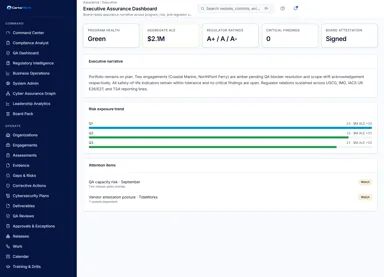
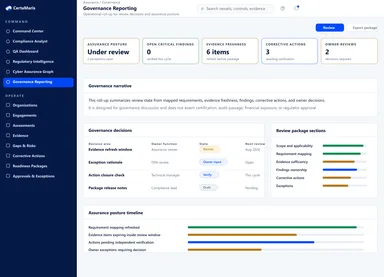
Improve product screenshot proof sequence

diff --git a/lib/product-screens.ts b/lib/product-screens.ts
@@ -40,13 +40,21 @@ export const productProofScreens = {
     body: "Corrective actions stay owned, time-bound, and visible through verification instead of ending as an untracked finding.",
     galleryOrder: 4,
   },
+  auditReadiness: {
+    src: "/product/clean/audit-readiness.png",
+    alt: "CertaMaris audit readiness package screen showing scope status, required evidence, open findings, corrective actions awaiting verification, exceptions, and reviewer notes.",
+    label: "Audit readiness",
+    title: "Readiness package preparation",
+    body: "A readiness package keeps scope, evidence, findings, corrective actions, exceptions, and reviewer notes structured for inspection without claiming an audit outcome.",
+    galleryOrder: 5,
+  },
   executiveReporting: {
     src: "/product/clean/executive-reporting.png",
-    alt: "CertaMaris board pack screen showing a sanitized governance roll-up of portfolio health, risk exposure, attestation status, KPIs, and risk heatmap.",
-    label: "Board pack",
+    alt: "CertaMaris governance reporting screen showing assurance posture, evidence freshness, corrective actions awaiting verification, owner reviews, governance decisions, and review package sections.",
+    label: "Governance reporting",
     title: "Governance reporting",
-    body: "A board-facing roll-up summarizes assurance posture, strategic risk, attestations, and operating indicators from the same underlying record.",
-    galleryOrder: 5,
+    body: "A governance roll-up summarizes assurance posture, evidence freshness, corrective actions, and owner review decisions without unsupported financial, certification, or regulator claims.",
+    galleryOrder: 6,
   },
   fleetInventory: {
     src: "/product/clean/fleet-inventory.png",
@@ -54,7 +62,7 @@ export const productProofScreens = {
     label: "Fleet and facilities",
     title: "Fleet scope and review cadence",
     body: "Fleet scope, vessel status, locations, criticality, and review cadence stay visible before any audit package is assembled.",
-    galleryOrder: 6,
+    galleryOrder: 7,
   },
 } satisfies Record<string, ProductProofScreen>;
 
@@ -63,5 +71,6 @@ export const productProofSequence = [
   productProofScreens.evidenceCoverage,
   productProofScreens.findingsRegister,
   productProofScreens.correctiveActions,
+  productProofScreens.auditReadiness,
   productProofScreens.executiveReporting,
 ];

diff --git a/lib/solutions-industries.ts b/lib/solutions-industries.ts
@@ -78,7 +78,7 @@ export const solutions: SolutionEntry[] = [
     eyebrow: "Solutions · 05",
     headline: "Governance-grade reporting without a slide deck rebuilt from scratch.",
     body: [
-      "Boards and executive teams need fleet-wide cyber-compliance status in a format built for a governance conversation — trend over time, outstanding decisions, and where exposure concentrates — not a raw export of every open finding.",
+      "Boards and executive teams need fleet-wide cyber-compliance status in a format built for a governance conversation — trend over time, outstanding decisions, and where operational risk needs review — not a raw export of every open finding.",
       "Executive & Board Reporting draws directly from the same live data operators and technical managers use day to day, so the number in the boardroom matches the number on the vessel.",
     ],
     capabilities: [
@@ -106,10 +106,10 @@ export const industries: IndustryEntry[] = [
     eyebrow: "Industries · 01",
     headline: "Fleet-wide readiness without chasing individual vessels for status.",
     body: [
-      "Owners and operators carry the commercial consequence of a cyber-compliance gap — off-hire risk, insurer conversations, and charterer scrutiny — without always having direct visibility into vessel-level detail.",
-      "CertaMaris gives owners and operators a fleet-wide view of readiness, open findings, and exposure, with the ability to drill into any vessel's underlying detail when it matters.",
+      "Owners and operators carry the operational consequence of a cyber-compliance gap — survey preparation, insurer conversations, and charterer scrutiny — without always having direct visibility into vessel-level detail.",
+      "CertaMaris gives owners and operators a fleet-wide view of readiness, open findings, and review decisions, with the ability to drill into any vessel's underlying detail when it matters.",
     ],
-    priorities: ["Fleet-wide readiness visibility", "Financial and operational exposure by vessel", "Insurer and charterer-ready reporting"],
+    priorities: ["Fleet-wide readiness visibility", "Open findings and review decisions by vessel", "Insurer and charterer-ready reporting"],
   },
   {
     id: "technical-managers",

diff --git a/app/solutions/page.tsx b/app/solutions/page.tsx
@@ -16,7 +16,7 @@ export const metadata = pageMetadata(
 
 const solutionScreens: Record<string, typeof productProofScreens[keyof typeof productProofScreens]> = {
   "fleet-compliance": productProofScreens.fleetInventory,
-  "audit-readiness": productProofScreens.evidenceCoverage,
+  "audit-readiness": productProofScreens.auditReadiness,
   "evidence-findings": productProofScreens.findingsRegister,
   "regulatory-intelligence": productProofScreens.requirementMapping,
   "executive-reporting": productProofScreens.executiveReporting,
@@ -27,11 +27,12 @@ const featuredScreens = [
   productProofScreens.evidenceCoverage,
   productProofScreens.findingsRegister,
   productProofScreens.correctiveActions,
+  productProofScreens.auditReadiness,
 ];
 
 const solutionScreenOrder: Record<string, number> = {
   "regulatory-intelligence": productProofScreens.requirementMapping.galleryOrder,
-  "audit-readiness": productProofScreens.evidenceCoverage.galleryOrder,
+  "audit-readiness": productProofScreens.auditReadiness.galleryOrder,
   "evidence-findings": productProofScreens.findingsRegister.galleryOrder,
   "executive-reporting": productProofScreens.executiveReporting.galleryOrder,
   "fleet-compliance": productProofScreens.fleetInventory.galleryOrder,
@@ -67,7 +68,8 @@ export default function SolutionsPage() {
             </h2>
             <p className="text-[15.5px] text-structural leading-relaxed">
               These are sanitized product views, not decorative mockups. They show where fleet scope, evidence
-              sufficiency, findings, corrective action ownership, and board reporting live inside CertaMaris.
+              sufficiency, findings, corrective action ownership, audit readiness, and governance reporting live inside
+              CertaMaris.
             </p>
           </Reveal>
           <Reveal delay={0.08} className="grid sm:grid-cols-2 gap-5">

diff --git a/app/resources/page.tsx b/app/resources/page.tsx
@@ -32,7 +32,8 @@ export default function ResourcesPage() {
             </h2>
             <p className="text-[15.5px] text-structural leading-relaxed">
               The resource library is more useful when readers can see where the concept lives: requirement mapping,
-              evidence sufficiency, findings, risk decisions, corrective actions, and executive reporting.
+              evidence sufficiency, findings, risk decisions, corrective actions, readiness packages, and governance
+              reporting.
             </p>
           </Reveal>
           <Reveal delay={0.08}>
@@ -56,7 +57,7 @@ export default function ResourcesPage() {
             Start with the workflow, then go deeper.
           </h2>
         </Reveal>
-        <RevealGroup className="grid md:grid-cols-2 lg:grid-cols-4 gap-6" stagger={0.05}>
+        <RevealGroup className="grid md:grid-cols-2 lg:grid-cols-3 xl:grid-cols-5 gap-6" stagger={0.05}>
           <ProductScreenTile
             {...productProofScreens.requirementMapping}
             title="Regulatory intelligence"
@@ -71,6 +72,11 @@ export default function ResourcesPage() {
             {...productProofScreens.correctiveActions}
             title="Corrective-action verification"
             body="Use the verification article to see why closure should remain separate from the action owner's own update."
+          />
+          <ProductScreenTile
+            {...productProofScreens.auditReadiness}
+            title="Audit readiness"
+            body="Use the readiness workflow to see why scope, evidence, findings, actions, exceptions, and reviewer notes need to stay inspectable."
           />
           <ProductScreenTile
             {...productProofScreens.executiveReporting}

diff --git a/components/ProductScreens.tsx b/components/ProductScreens.tsx
@@ -245,7 +245,7 @@ function ProductScreenFrameInner({
           className="aspect-[1440/1040] w-full object-cover object-top"
         />
       </figure>
-      <span className="pointer-events-none absolute bottom-3 right-3 rounded-full border border-white/40 bg-navy/82 px-3 py-1 font-mono text-[10px] uppercase tracking-[0.12em] text-white opacity-0 transition-opacity duration-150 group-hover:opacity-100 group-focus-visible:opacity-100">
+      <span className="pointer-events-none absolute bottom-3 right-3 rounded-full border border-white/40 bg-navy/82 px-3 py-1 font-mono text-[10px] uppercase tracking-[0.12em] text-white opacity-100 transition-opacity duration-150 sm:opacity-0 sm:group-hover:opacity-100 sm:group-focus-visible:opacity-100">
         Expand
       </span>
     </button>
@@ -493,7 +493,7 @@ export function ProductScreenFrame({
 
 export function ProductScreenTile({ title, body, ...screen }: ProductScreenTileProps) {
   return (
-    <article className="grid gap-4">
+    <article className="grid content-start gap-3.5">
       <ProductScreenFrameInner
         sizes="(min-width: 1280px) 25vw, (min-width: 1024px) 45vw, (min-width: 640px) 50vw, 100vw"
         {...screen}
@@ -501,7 +501,7 @@ export function ProductScreenTile({ title, body, ...screen }: ProductScreenTileP
         body={body}
       />
       <div>
-        <h3 className="mb-1.5 text-[15px] font-semibold">{title}</h3>
+        <h3 className="mb-1.5 text-[15px] font-semibold leading-snug">{title}</h3>
         <p className="text-[13.5px] leading-relaxed text-structural">{body}</p>
       </div>
     </article>

diff --git a/app/platform/page.tsx b/app/platform/page.tsx
@@ -32,6 +32,7 @@ const platformScreens = [
   productProofScreens.evidenceCoverage,
   productProofScreens.findingsRegister,
   productProofScreens.correctiveActions,
+  productProofScreens.auditReadiness,
 ];
 
 export default function PlatformPage() {
@@ -110,7 +111,7 @@ export default function PlatformPage() {
           <Eyebrow>Operational screens</Eyebrow>
           <h2 className="text-[28px] sm:text-[34px] leading-[1.14]">The record becomes usable operating rhythm.</h2>
         </Reveal>
-        <RevealGroup className="grid md:grid-cols-3 gap-6" stagger={0.05}>
+        <RevealGroup className="grid sm:grid-cols-2 lg:grid-cols-4 gap-6" stagger={0.05}>
           {platformScreens.map((screen) => (
             <ProductScreenTile key={screen.src} {...screen} />
           ))}

diff --git a/app/compliance/page.tsx b/app/compliance/page.tsx
@@ -150,7 +150,7 @@ export default function CompliancePage() {
             The requirement story continues into evidence and reporting.
           </h2>
         </Reveal>
-        <div className="grid md:grid-cols-2 lg:grid-cols-4 gap-6">
+        <div className="grid md:grid-cols-2 lg:grid-cols-3 xl:grid-cols-5 gap-6">
           <ProductScreenTile
             {...productProofScreens.evidenceCoverage}
           />
@@ -159,6 +159,9 @@ export default function CompliancePage() {
           />
           <ProductScreenTile
             {...productProofScreens.correctiveActions}
+          />
+          <ProductScreenTile
+            {...productProofScreens.auditReadiness}
           />
           <ProductScreenTile
             {...productProofScreens.executiveReporting}

diff --git a/app/page.tsx b/app/page.tsx
@@ -18,6 +18,7 @@ const productScreens = [
   productProofScreens.evidenceCoverage,
   productProofScreens.findingsRegister,
   productProofScreens.correctiveActions,
+  productProofScreens.auditReadiness,
   productProofScreens.executiveReporting,
 ];
 
@@ -145,7 +146,7 @@ export default function HomePage() {
             The site should show the system operators actually use.
           </h2>
         </Reveal>
-        <RevealGroup className="grid sm:grid-cols-2 gap-6" stagger={0.05}>
+        <RevealGroup className="grid sm:grid-cols-2 lg:grid-cols-3 gap-6" stagger={0.05}>
           {productScreens.map((screen) => (
             <ProductScreenTile key={screen.src} {...screen} />
           ))}

diff --git a/lib/content.ts b/lib/content.ts
@@ -94,7 +94,7 @@ export const personas: Persona[] = [
   {
     id: "owners-operators",
     title: "Ship owners & operators",
-    detail: "Fleet-wide readiness status and financial exposure without chasing individual vessels for updates.",
+    detail: "Fleet-wide readiness status, open findings, and owner decisions without chasing individual vessels for updates.",
   },
   {
     id: "technical-managers",

diff --git a/docs/product-screenshot-governance.md b/docs/product-screenshot-governance.md
@@ -1,0 +1,84 @@
+# Product Screenshot Governance
+
+This standard controls public CertaMaris product screenshots used on the marketing website.
+
+## Asset Standard
+
+- Source resolution: `1440x1040` PNG.
+- Aspect ratio: `18:13`.
+- Source location: `public/product/clean/`.
+- Optimized variants: `public/product/optimized/`.
+- Required optimized widths: `384`, `640`, and `960` WebP.
+- Naming: lowercase kebab-case, matching the source PNG base name, for example `audit-readiness.png` and `audit-readiness-640.webp`.
+- Crop: show product chrome, sidebar context, title, and the primary working area. Do not crop away the workflow context that explains the screen.
+- Safe margins: keep critical text and controls at least `24px` from the screenshot edge.
+
+## Data Rules
+
+- Use sanitized product-like data only.
+- Prefer role and function labels over person names.
+- Generic roles are acceptable: `Assurance owner`, `Compliance lead`, `Security lead`, `Technical manager`, and `DPA review`.
+- Avoid accidental placeholder names such as `John Doe`, `Jane Smith`, `Test User`, `Acme`, or `Demo Customer`.
+- Do not include real customer names, customer logos, vessel names, IMO numbers, addresses, emails, phone numbers, or personal data unless specifically approved for public use.
+
+## Metric Policy
+
+Public screenshots must not show unsupported business metrics or outcomes, including:
+
+- Dollar exposure, avoided loss, aggregate loss estimates, or revenue impact.
+- NPS, logo retention, win rate, board score, regulator grade, or similar commercial KPIs.
+- Audit pass rate, certification status, class approval, regulator acceptance, or guaranteed survey outcomes.
+- Customer results, benchmark claims, or time savings unless approved and substantiated.
+
+Allowed operational labels include:
+
+- Assurance posture.
+- Open critical findings.
+- Evidence freshness.
+- Corrective actions awaiting verification.
+- Exceptions requiring review.
+- Upcoming review package.
+- Governance decisions.
+- Readiness package status.
+
+## Claim Mapping
+
+Each screenshot may support only the claims below:
+
+| Screenshot | Allowed marketing claim |
+|---|---|
+| `requirement-control-mapping.png` | Requirements, controls, evidence, exceptions, and validation history stay connected. |
+| `evidence-coverage.png` | Evidence sufficiency and freshness can be reviewed before a document chase begins. |
+| `findings-register.png` | Findings remain owned, risk-rated, aged, and tied to action context. |
+| `corrective-actions.png` | Corrective actions remain time-bound and independently verifiable before closure. |
+| `audit-readiness.png` | Readiness packages can organize scope, evidence, findings, actions, exceptions, and reviewer notes for inspection. |
+| `executive-reporting.png` | Governance reporting can summarize assurance posture, freshness, actions, and review decisions from the same record. |
+| `fleet-inventory.png` | Fleet scope and review cadence can remain visible where vessel or facility scope matters. |
+
+## Legal and Regulatory Boundaries
+
+- Do not imply CertaMaris provides legal or regulatory advice.
+- Do not imply a certification, class approval, regulator approval, audit pass, or guaranteed survey outcome.
+- Do not show badges or seals that resemble certifications unless the certificate exists and its public scope is approved.
+- Keep disclaimer-sensitive language in page copy and screenshot captions aligned with the public website's compliance boundary.
+
+## Accessibility Expectations
+
+- Every public screenshot reference must include alt text that describes the screen and the relevant workflow.
+- Lightbox titles and captions must state what the screenshot proves without overstating claims.
+- Text inside screenshots should remain legible in the lightbox at desktop, tablet, and mobile viewport widths.
+- Thumbnail crops must not obscure the main workflow signal.
+
+## Review Checklist
+
+Before deployment, verify:
+
+- Source PNG is `1440x1040`.
+- `384`, `640`, and `960` WebP variants exist.
+- File names match the registry in `lib/product-screens.ts`.
+- No customer claims, customer logos, personal data, fake certifications, unsupported financial metrics, or pass/fail claims appear.
+- No empty states, loading states, preview toggles, debug UI, local environment labels, or obvious mock/demo controls appear.
+- The screenshot is clickable in every route where it renders.
+- Lightbox order follows the approved proof sequence.
+- The screenshot supports the exact claim assigned in this document.
+- `npm.cmd run typecheck` and `npm.cmd run build:static` pass before deployment.
